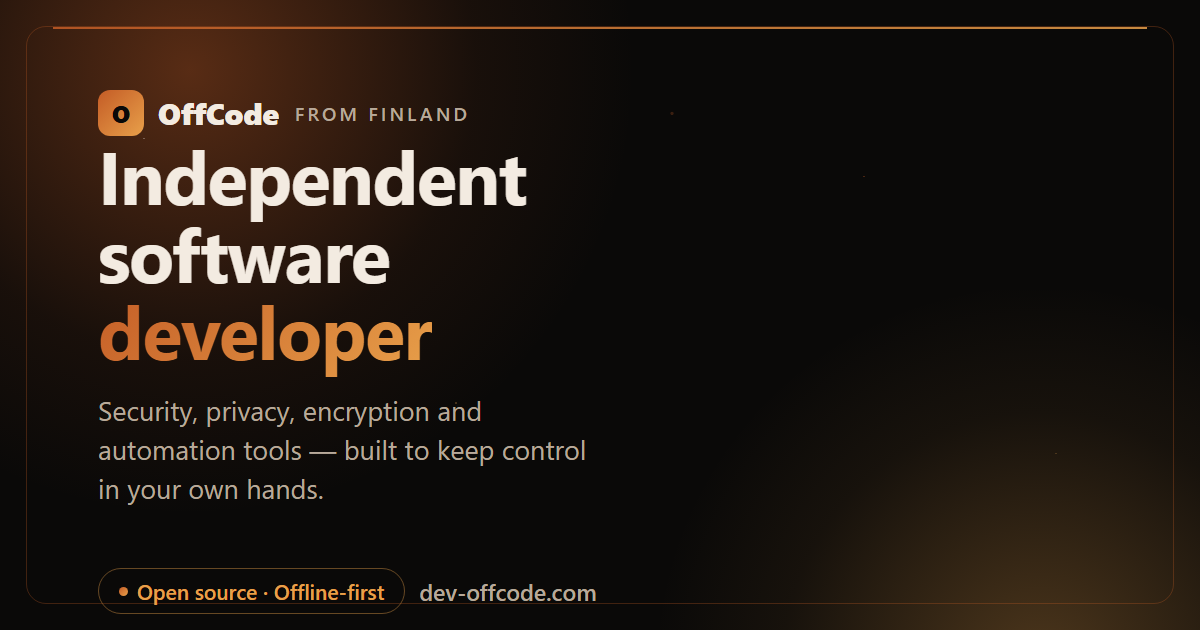
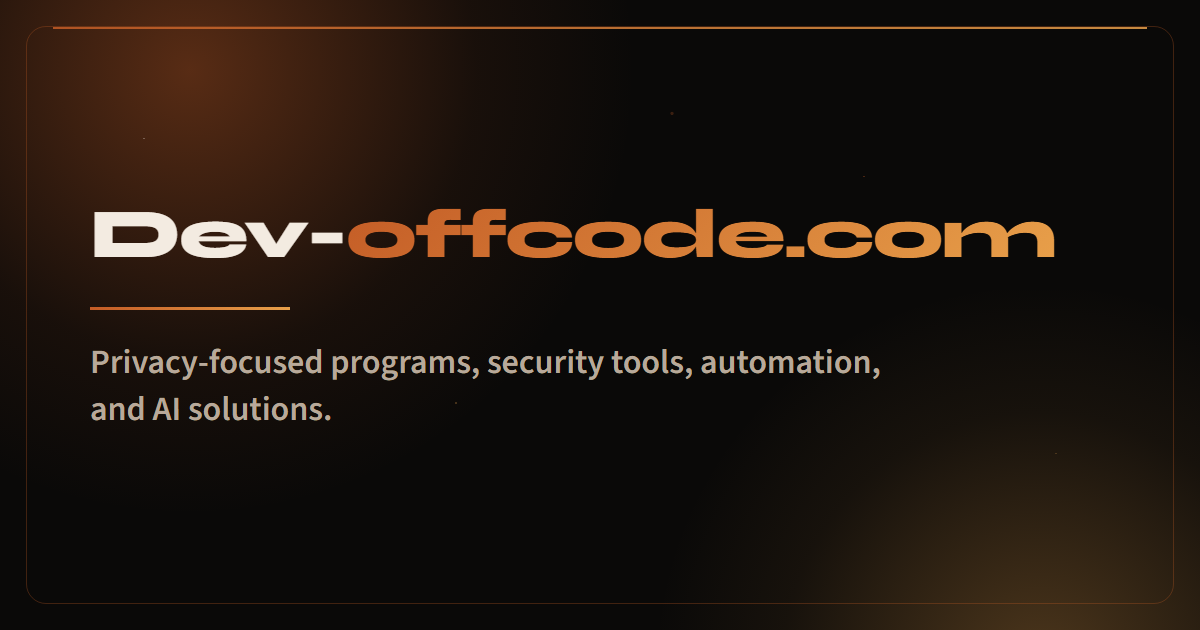
Add files via upload

diff --git a/index.html b/index.html
@@ -35,7 +35,7 @@
     <meta property="og:image" content="https://www.dev-offcode.com/main-og.png">
     <meta property="og:image:width" content="1200">
     <meta property="og:image:height" content="630">
-    <meta property="og:image:alt" content="OffCode - independent software developer from Finland, building security, privacy, encryption and automation tools">
+    <meta property="og:image:alt" content="Dev-offcode.com - Privacy-focused programs, security tools, automation, and AI solutions.">
 
     <meta name="twitter:card" content="summary_large_image">
     <meta name="twitter:site" content="@OffCryptAndroid">
